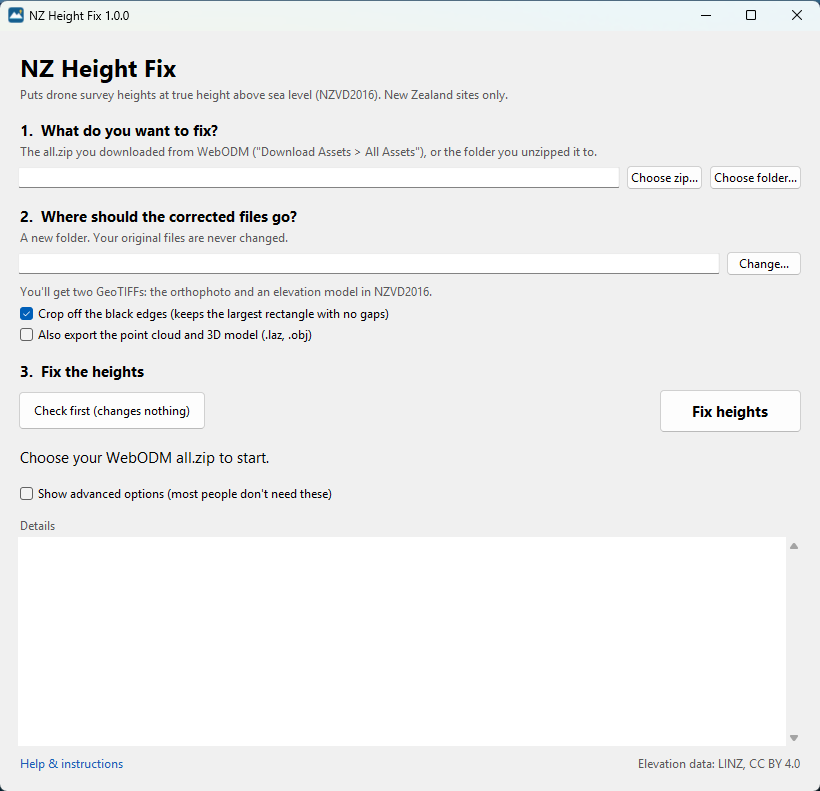
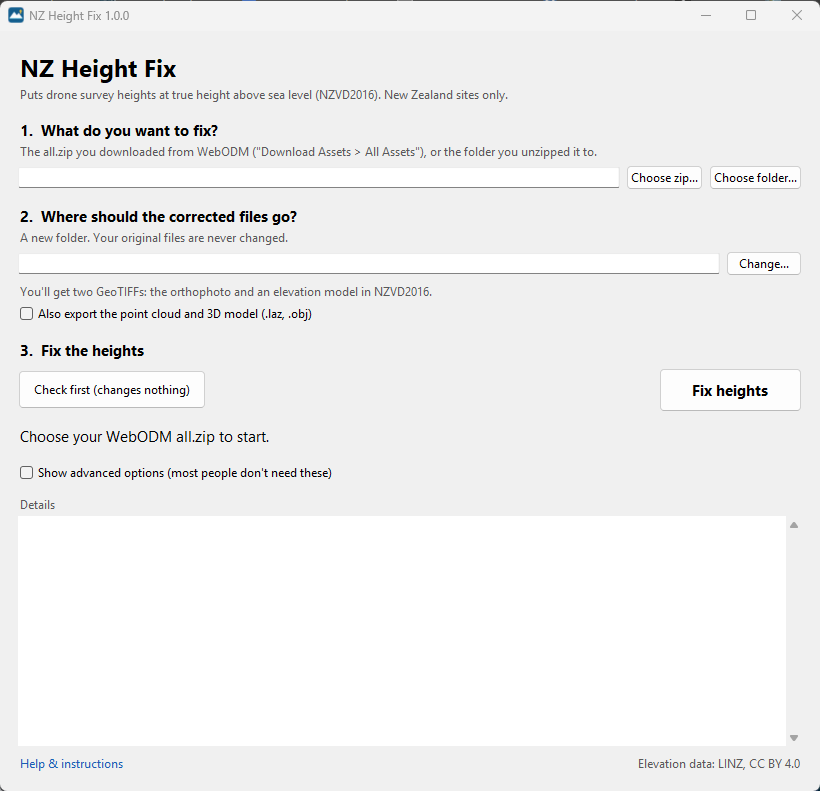
Keep the whole orthophoto; mark the outside as no-data instead of cropping
The rectangle crop threw away half the map on angled flights. The export now
keeps every image pixel, trims only empty margins, and marks the area outside
the map as alpha=0 plus nodata=0 so viewers that ignore alpha don't show black.

diff --git a/nz_height_fix.py b/nz_height_fix.py
@@ -702,49 +702,25 @@ def process_obj(path, out, mode, offset, geoid, coords, check, log):
 
 
 # --------------------------------------------------------------------------
-# Simple export: one corrected elevation GeoTIFF + the orthophoto GeoTIFF,
-# optionally cropped so there are no black (nodata/transparent) edges.
+# Simple export: one corrected elevation GeoTIFF + the orthophoto GeoTIFF, trimmed
+# to the mapped area, with everything outside it marked as no-data (see-through).
 # --------------------------------------------------------------------------
 
-def _largest_rectangle(mask):
-    """Largest all-True axis-aligned rectangle in a 2-D bool array, as (r0, c0, r1, c1)."""
-    h, w = mask.shape
-    heights = np.zeros(w + 1, dtype=np.int64)  # trailing 0 flushes the stack each row
-    best = (0, 0, 0, 0, 0)
-    for r in range(h):
-        heights[:w] = np.where(mask[r], heights[:w] + 1, 0)
-        hl = heights.tolist()
-        stack = []  # (start column, height), heights increasing
-        for c, hc in enumerate(hl):
-            start = c
-            while stack and stack[-1][1] >= hc:
-                s, sh = stack.pop()
-                if sh * (c - s) > best[0]:
-                    best = (sh * (c - s), r - sh + 1, s, r + 1, c)
-                start = s
-            stack.append((start, hc))
-    return best[1:]
-
-
-def _valid_rect(read_mask, height, width, max_cells=600):
-    """Window of the largest fully-valid rectangle. read_mask(row0, nrows, ncols) -> bool array.
-
-    Works on blocks of k x k pixels; a block only counts as valid if every pixel is,
-    so the result never includes a nodata pixel.
-    """
+def _data_window(src):
+    """Smallest window holding every valid (non-transparent) pixel of a raster."""
     from rasterio.windows import Window
-    k = max(1, int(np.ceil(max(width, height) / max_cells)))
-    nr, nc = height // k, width // k
-    if nr == 0 or nc == 0:
+    rows = np.zeros(src.height, dtype=bool)
+    cols = np.zeros(src.width, dtype=bool)
+    for r in range(0, src.height, 1024):
+        n = min(1024, src.height - r)
+        m = src.dataset_mask(window=Window(0, r, src.width, n)) > 0
+        rows[r:r + n] = m.any(axis=1)
+        cols |= m.any(axis=0)
+    if not rows.any():
         return None
-    small = np.zeros((nr, nc), dtype=bool)
-    for i in range(nr):
-        m = np.asarray(read_mask(i * k, k, nc * k), dtype=bool)
-        small[i] = m.reshape(k, nc, k).all(axis=(0, 2))
-    r0, c0, r1, c1 = _largest_rectangle(small)
-    if r1 <= r0 or c1 <= c0:
-        return None
-    return Window(c0 * k, r0 * k, (c1 - c0) * k, (r1 - r0) * k)
+    r0, r1 = np.nonzero(rows)[0][[0, -1]]
+    c0, c1 = np.nonzero(cols)[0][[0, -1]]
+    return Window(int(c0), int(r0), int(c1 - c0 + 1), int(r1 - r0 + 1))
 
 
 def _overview_factors(width, height):
@@ -821,28 +797,37 @@ def _cloud_to_dem(path, bounds, out_crs, fallback_crs, max_cells=16_000_000):
     return dem, from_origin(xmin, ymax, res, res), out_crs, res
 
 
-def _write_ortho(src_path, out, win, drop_alpha):
+def _write_ortho(src_path, out, win):
+    """Copy the orthophoto window with the area outside the map marked as no-data twice over:
+    alpha = 0 (for programs that use transparency) and every band = 0 with nodata=0 (for
+    programs that only read the no-data value, which otherwise show the outside as black)."""
     import rasterio
-    from rasterio.enums import ColorInterp, Resampling
+    from rasterio.enums import Resampling
     from rasterio.windows import Window
     with rasterio.open(src_path) as src:
-        bands = list(range(1, src.count + 1))
-        if drop_alpha and src.count == 4 and src.colorinterp[3] == ColorInterp.alpha:
-            bands = bands[:3]  # nothing is transparent once the edges are cropped off
         w, h = int(win.width), int(win.height)
         profile = src.profile.copy()
-        profile.update(driver="GTiff", width=w, height=h, count=len(bands),
-                       transform=src.window_transform(win), tiled=True, blockxsize=512,
-                       blockysize=512, compress="deflate", predictor=2, BIGTIFF="IF_SAFER")
-        if len(bands) >= 3 and profile["dtype"] == "uint8":
-            profile["photometric"] = "RGB"
+        profile.update(driver="GTiff", width=w, height=h, transform=src.window_transform(win),
+                       tiled=True, blockxsize=512, blockysize=512, compress="deflate",
+                       predictor=2, BIGTIFF="IF_SAFER")
+        byte_rgb = src.count >= 3 and profile["dtype"] == "uint8"
+        if byte_rgb:
+            profile.update(photometric="RGB", nodata=0)
+            if src.count == 4 and src.colorinterp[3].name == "alpha":
+                profile["alpha"] = "YES"  # GDAL only tags band 4 as alpha at creation
         os.makedirs(os.path.dirname(out) or ".", exist_ok=True)
         with rasterio.open(out, "w", **profile) as dst:
             for r in range(0, h, 1024):
                 n = min(1024, h - r)
                 sub = Window(win.col_off, win.row_off + r, w, n)
-                dst.write(src.read(bands, window=sub), window=Window(0, r, w, n))
-            dst.colorinterp = src.colorinterp[:len(bands)]
+                a = src.read(window=sub)
+                if byte_rgb:
+                    inside = src.dataset_mask(window=sub) > 0
+                    # real black pixels inside the map become 1 so they aren't read as no-data
+                    a[:, inside] = np.maximum(a[:, inside], 1)
+                    a[:, ~inside] = 0
+                dst.write(a, window=Window(0, r, w, n))
+            dst.colorinterp = src.colorinterp
             factors = _overview_factors(w, h)
             if factors:
                 dst.build_overviews(factors, Resampling.average)
@@ -864,13 +849,11 @@ def _write_dem(out, dem, transform, crs, note):
             dst.build_overviews(factors, Resampling.average)
 
 
-def export_maps(files, out_root, name, mode, offset, geoid, task_crs, crop, check, log):
+def export_maps(files, out_root, name, mode, offset, geoid, task_crs, check, log):
     """Write '<name> - orthophoto.tif' and '<name> - DSM/DTM NZVD2016.tif'."""
     import rasterio
     from rasterio.transform import array_bounds
-    from rasterio.windows import Window
     from rasterio.windows import bounds as window_bounds
-    from rasterio.windows import transform as window_transform
     by_name = {os.path.basename(f).lower(): f for f in files}
     ortho = by_name.get("odm_orthophoto.tif")
     dem_path = by_name.get("dtm.tif") or by_name.get("dsm.tif")
@@ -881,19 +864,13 @@ def export_maps(files, out_root, name, mode, offset, geoid, task_crs, crop, chec
     if ortho:
         with rasterio.open(ortho) as src:
             ortho_crs = src.crs
-            ortho_win = Window(0, 0, src.width, src.height)
-            if crop:
-                ortho_win = _valid_rect(
-                    lambda r0, n, w: src.dataset_mask(window=Window(0, r0, w, n)) > 0,
-                    src.height, src.width)
-                if ortho_win is None:
-                    raise FixError("The orthophoto has no area without gaps to crop to.")
+            ortho_win = _data_window(src)
+            if ortho_win is None:
+                raise FixError("The orthophoto is empty (every pixel is no-data).")
             bounds = window_bounds(ortho_win, src.transform)
             rx, ry = src.res
-            log(f"    orthophoto: {ortho_win.width * rx:.0f} x {ortho_win.height * ry:.0f} m"
-                + (" after cropping off the black edges" if crop else "")
-                + f" ({100 * ortho_win.width * ortho_win.height / (src.width * src.height):.0f}% "
-                  f"of the original image)")
+            log(f"    orthophoto: {ortho_win.width * rx:.0f} x {ortho_win.height * ry:.0f} m, "
+                f"area outside the map marked as no-data")
     else:
         log("    no orthophoto in the input - only the elevation model is exported")
 
@@ -911,13 +888,6 @@ def export_maps(files, out_root, name, mode, offset, geoid, task_crs, crop, chec
         log("    no elevation model or point cloud in the input - no DEM exported")
 
     if dem is not None:
-        if crop and ortho is None:
-            ok = np.isfinite(dem)
-            win = _valid_rect(lambda r0, n, w: ok[r0:r0 + n, :w], *dem.shape)
-            if win is not None:
-                r0, c0 = int(win.row_off), int(win.col_off)
-                dem = dem[r0:r0 + int(win.height), c0:c0 + int(win.width)]
-                transform = window_transform(win, transform)
         valid = np.isfinite(dem)
         if valid.any():
             rows, cols = np.nonzero(valid)
@@ -932,7 +902,7 @@ def export_maps(files, out_root, name, mode, offset, geoid, task_crs, crop, chec
         return
     if ortho:
         out = os.path.join(out_root, f"{name} - orthophoto.tif")
-        _write_ortho(ortho, out, ortho_win, drop_alpha=crop)
+        _write_ortho(ortho, out, ortho_win)
         log(f"    wrote {os.path.basename(out)}")
     if dem is not None:
         out = os.path.join(out_root, f"{name} - {kind} NZVD2016.tif")
@@ -941,7 +911,7 @@ def export_maps(files, out_root, name, mode, offset, geoid, task_crs, crop, chec
 
 
 def process_outputs(files, in_root, out_root, mode, offset, geoid, check, log,
-                    name="map", full=False, crop=True):
+                    name="map", full=False):
     """Returns {"offset": metres, "spread": metres} for automatic mode, else {}.
 
     Always exports the orthophoto and a corrected elevation model as GeoTIFFs; with
@@ -982,7 +952,7 @@ def process_outputs(files, in_root, out_root, mode, offset, geoid, check, log,
         for path in rasters:
             with rasterio.open(path) as ds:
                 task_crs = task_crs or ds.crs
-    export_maps(files, out_root, name, mode, offset, geoid, task_crs, crop, check, log)
+    export_maps(files, out_root, name, mode, offset, geoid, task_crs, check, log)
     if not full:
         if not check:
             log("Done.")
@@ -1026,7 +996,7 @@ def _export_name(input_path):
 
 
 def run(input_path, output_dir, mode="geoid", offset=0.0, takeoff=None, check=False,
-        grid=None, log=print, full=False, crop=True):
+        grid=None, log=print, full=False):
     if mode not in ("auto", "geoid", "offset", "takeoff"):
         raise FixError(f"unknown mode {mode}")
     if mode == "takeoff" and takeoff is None:
@@ -1080,7 +1050,7 @@ def run(input_path, output_dir, mode="geoid", offset=0.0, takeoff=None, check=Fa
                 raise FixError("takeoff mode is for raw photos; use geoid or offset for WebODM outputs")
             log(f"Input looks like WebODM outputs. Mode: {mode}")
             return process_outputs(files, in_root, output_dir, mode, offset, geoid, check, log,
-                                   name=_export_name(input_path), full=full, crop=crop)
+                                   name=_export_name(input_path), full=full)
         else:
             photos = sorted(f for f in files if f.lower().endswith(PHOTO_EXTS))
             if not photos:
@@ -1153,7 +1123,6 @@ def gui():
     mode = tk.StringVar(value="auto")
     offset, takeoff = tk.StringVar(value="0"), tk.StringVar()
     advanced = tk.BooleanVar(value=False)
-    crop = tk.BooleanVar(value=True)
     full = tk.BooleanVar(value=False)
     status = tk.StringVar(value="Choose your WebODM all.zip to start.")
     suggested = {"out": ""}  # output folder we filled in, replaced when the input changes
@@ -1210,10 +1179,8 @@ def gui():
     ttk.Button(s2, text="Change...", command=pick_out_dir).grid(row=2, column=1)
     ttk.Label(s2, text="You'll get two GeoTIFFs: the orthophoto and an elevation model in NZVD2016.",
               style="Hint.TLabel").grid(row=3, column=0, columnspan=2, sticky="w", pady=(6, 0))
-    ttk.Checkbutton(s2, text="Crop off the black edges (keeps the largest rectangle with no gaps)",
-                    variable=crop).grid(row=4, column=0, columnspan=2, sticky="w", pady=(2, 0))
     ttk.Checkbutton(s2, text="Also export the point cloud and 3D model (.laz, .obj)",
-                    variable=full).grid(row=5, column=0, columnspan=2, sticky="w")
+                    variable=full).grid(row=4, column=0, columnspan=2, sticky="w", pady=(2, 0))
 
     def suggest_output(*_):
         src = inp.get().strip().strip('"')
@@ -1331,7 +1298,7 @@ def gui():
         def work():
             try:
                 result = run(src, dst, mode.get(), off, tko, check,
-                             log=lambda m: q.put(("log", m)), full=full.get(), crop=crop.get())
+                             log=lambda m: q.put(("log", m)), full=full.get())
                 q.put(("done", (check, result or {}, dst)))
             except Exception as e:
                 q.put(("err", str(e) or e.__class__.__name__))
@@ -1399,15 +1366,13 @@ def main():
     ap.add_argument("--offset", type=float, default=0.0, help="metres to add (offset mode)")
     ap.add_argument("--takeoff-elev", type=float, help="takeoff ground height, m above sea level (takeoff mode)")
     ap.add_argument("--check", action="store_true", help="only report heights, write nothing")
-    ap.add_argument("--keep-edges", action="store_true",
-                    help="don't crop the exported GeoTIFFs to the gap-free area")
     ap.add_argument("--full", action="store_true",
                     help="also correct the point cloud, 3D model and WebODM's own DEMs")
     ap.add_argument("--grid", help=f"path to {GEOID_FILENAME} (downloaded automatically if omitted)")
     a = ap.parse_args()
     try:
         run(a.input, a.output, a.mode, a.offset, a.takeoff_elev, a.check, a.grid,
-            full=a.full, crop=not a.keep_edges)
+            full=a.full)
     except FixError as e:
         sys.exit(f"ERROR: {e}")
 

diff --git a/README.md b/README.md
@@ -48,7 +48,7 @@ Two GeoTIFFs, ready for QGIS, ArcGIS or CAD:
 | `<name> - orthophoto.tif` | the orthophoto |
 | `<name> - DSM NZVD2016.tif` | the elevation model, with heights in metres above sea level (NZVD2016). If your WebODM task made a DTM (ground only), you get `DTM` instead. If it made no elevation model at all, one is built from the point cloud. |
 
-**Black edges:** WebODM maps have an irregular outline, and the empty area around it shows as black in many programs. By default, both files are cropped to the largest rectangle that has no gaps, so there are no black edges. If your flight was at an angle, that rectangle can be much smaller than the mapped area. Untick **Crop off the black edges** to keep the whole area instead. The edges are then transparent, not cropped.
+**No black edges:** your map has an irregular outline. WebODM marks the area around it as transparent, but many programs ignore that and show it as black. The exported orthophoto keeps all of the image, trims any empty margin, and marks the area outside the map as no-data in two ways: as transparency and as a no-data value. QGIS, ArcGIS, Global Mapper and CAD programs then show it as see-through instead of black. The elevation model uses the standard no-data value `-9999` outside the map.
 
 Tick **Also export the point cloud and 3D model** to get corrected copies of these files too:
 
